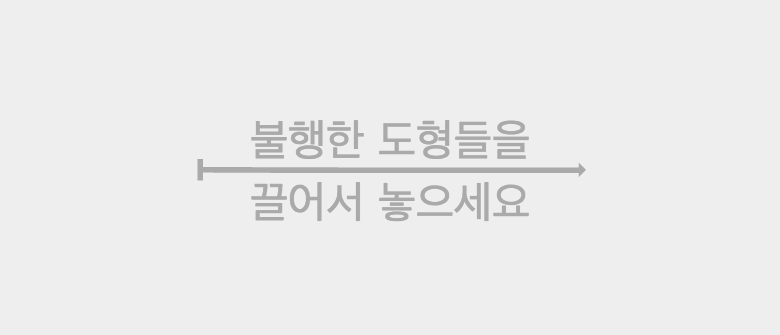
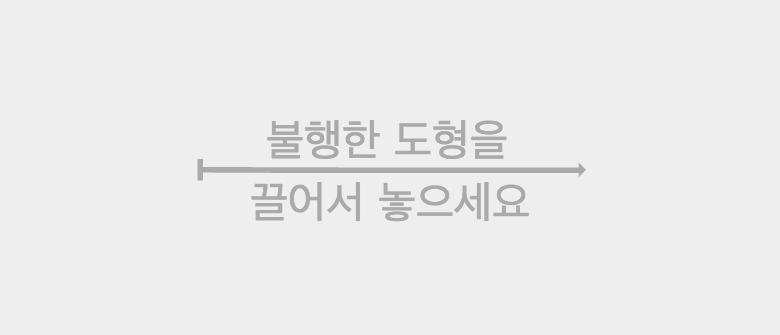
Remove unnecessary '들'

Changed region(s): [[0.3077, 0.3582, 0.6769, 0.4776]]

diff --git a/index.html b/index.html
@@ -4,19 +4,19 @@
 	<meta charset="utf-8"/>
 	<!-- Place this data between the <head> tags of your website -->
 	<title>도형 이야기 - 사회의 형태에 관한 플레이 가능한 글</title>
-	<meta name="description" content="무해한 선택들이 어떻게 해로운 세상을 만드는지에 관한 플레이 가능한 글" />
+	<meta name="description" content="무해한 선택이 어떻게 해로운 세상을 만드는지에 관한 플레이 가능한 글" />
 	<link rel="icon" type="image/png" href="favicon.png">
 
 	<!-- Schema.org markup for Google+ -->
 	<meta itemprop="name" content="도형 이야기">
-	<meta itemprop="description" content="무해한 선택들이 어떻게 해로운 세상을 만드는지에 관한 플레이 가능한 글">
+	<meta itemprop="description" content="무해한 선택이 어떻게 해로운 세상을 만드는지에 관한 플레이 가능한 글">
 	<meta itemprop="image" content="http://ncase.me/polygons/social/thumbnail.png">
 
 	<!-- Twitter Card data -->
 	<meta name="twitter:card" content="summary_large_image">
 	<meta name="twitter:site" content="@ncasenmare">
 	<meta name="twitter:title" content="도형 이야기">
-	<meta name="twitter:description" content="무해한 선택들이 어떻게 해로운 세상을 만드는지에 관한 플레이 가능한 글">
+	<meta name="twitter:description" content="무해한 선택이 어떻게 해로운 세상을 만드는지에 관한 플레이 가능한 글">
 	<meta name="twitter:creator" content="@vihartvihart">
 	<meta name="twitter:image" content="http://ncase.me/polygons/social/thumbnail.png">
 
@@ -25,7 +25,7 @@
 	<meta property="og:type" content="website">
 	<meta property="og:url" content="https://choyongjoon.github.io/polygons-ko/">
 	<meta property="og:image" content="http://ncase.me/polygons/social/thumbnail.png">
-	<meta property="og:description" content="무해한 선택들이 어떻게 해로운 세상을 만드는지에 관한 플레이 가능한 글">
+	<meta property="og:description" content="무해한 선택이 어떻게 해로운 세상을 만드는지에 관한 플레이 가능한 글">
 	<meta property="og:site_name" content="도형 이야기">
 
 	<!-- CSS -->
@@ -50,24 +50,24 @@
 	<!-- CHAPTER -->
 	<div class="chapter">
 
-		<p><strong>이것은 무해한 선택들이 어떻게 해로운 세상을 만드는 지에 관한 이야기입니다.</strong></p>
+		<p><strong>이것은 무해한 선택이 어떻게 해로운 세상을 만드는 지에 관한 이야기입니다.</strong></p>
 		<p>
 			이 귀여운 도형들은 50% 세모, 50% 네모, 그리고 100% 약간 도형차별주의자입니다.
 			하지만 정말 약간만요!
-			사실, 모든 도형들은 다양한 군중 속에 있는 것을 <i>선호합니다</i>.
+			사실, 모든 도형은 다양한 군중 속에 있는 것을 <i>선호합니다</i>.
 		</p>
 
 		<iframe id="mini_intro" playable src="play/mini/mini_intro.html" width="800" height="385" scrolling="no" style="margin:0 auto;display:block" embedded></iframe>
 
 		<p>
-			도형들은 바로 옆의 이웃들과 불행할 때만 옮길 수 있습니다.
-			한번 괜찮은 자리로 옮기고 나면, <i>다시 이웃들과 불행해지기 전까지 움직일 수 없습니다</i>.
-			도형들은 단 하나의 단순한 규칙을 가지고 있죠.
+			도형은 바로 옆의 이웃과 불행할 때만 옮길 수 있습니다.
+			한번 괜찮은 자리로 옮기고 나면, <i>다시 이웃과 불행해지기 전까지 움직일 수 없습니다</i>.
+			도형은 단 하나의 단순한 규칙을 가지고 있죠.
 		</p>
 
 		<p style="text-align:center">
 			<b>
-			“내 이웃들 중 나와 비슷한 도형이 1/3 보다 적다면 자리를 옮기고 싶어."
+			“내 이웃 중 나와 비슷한 도형이 1/3 보다 적다면 자리를 옮기고 싶어."
 			</b>
 		</p>
 		<iframe playable src="play/mini/mini_unhappy.html" width="250" height="320" scrolling="no" style="float:left; margin:0; margin-left:10px; position:relative; left:-30px"  embedded></iframe>
@@ -80,12 +80,12 @@
 
 		<p>
 			무해하죠?
-			모든 도형들은 다양한 이웃들과 행복할 겁니다.
+			모든 도형은 다양한 이웃과 행복할 겁니다.
 			그들의 작은 편견이 큰 도형 사회에 그다지 영향을 미칠 수 없겠죠?
 			음...
 		</p>
 		<div class="instruction">
-			불행한 도형이 없을 때까지 도형들을 끌어서 옮기세요.<br>
+			불행한 도형이 없을 때까지 도형을 끌어서 옮기세요.<br>
 			<span style="font-size:18px">(무작위 빈 공간에 옮기세요. 너무 고민하지 말구요.)</span>
 		</div>
 
@@ -102,16 +102,16 @@
 			그러면... 우리의 도형 사회는 엄청 분리됩니다. 이런.
 		</p>
 		<p>
-			때때로 이웃들이 네모가 되는 경우가 있고,
-			어떤 세모도 주위에 있고 싶지 않은 것은 네모들의 잘못이 아닙니다.
-			그리고 세모 이웃들은 네모들을 환영히지만
-			네모들이 관심이 없는 것까지 해결할 수 없습니다.
+			때때로 이웃이 네모가 되는 경우가 있고,
+			어떤 세모도 주위에 있고 싶지 않은 것은 네모의 잘못이 아닙니다.
+			그리고 세모 이웃은 네모를 환영히지만
+			네모가 관심이 없는 것까지 해결할 수 없습니다.
 		</p>
 
 		<iframe id="mini_neighborhood" playable src="play/mini/mini_neighborhood.html" width="730" height="240" scrolling="no" style="margin:0 auto;display:block" embedded></iframe>
 
 		<p>
-			이번 단계에서는, 불행한 도형들은 무작위 빈 자리로 자동적으로 움직입니다.
+			이번 단계에서는, 불행한 도형은 무작위 빈 자리로 자동적으로 움직입니다.
 			또한 시간에 따라 분리된 정도를 기록하는 그래프도 있습니다.
 		</p>
 		<div class="instruction">
@@ -127,14 +127,14 @@
 	<!-- CHAPTER -->
 	<div class="chapter">
 		<p>
-			무슨 일이 일어난 거죠? 이들은 좋은 도형들이고, 괜찮은 도형들입니다.
-			그렇지만, 모든 개인들이 약간의 편견만 가지고 있더라도, 전체 도형 사회는 갈라지고 나눠집니다.
+			무슨 일이 일어난 거죠? 이들은 좋은 도형이고, 괜찮은 도형입니다.
+			그렇지만, 모든 개인이 약간의 편견만 가지고 있더라도, 전체 도형 사회는 갈라지고 나눠집니다.
 		</p>
 
 		<iframe id="mini_checkerboard" playable src="play/mini/mini_checkerboard.html" width="730" height="240" scrolling="no" style="margin:0 auto;display:block" embedded></iframe>
 
 		<p>
-			<strong>작은 개인의 편견들은 큰 집단 편견으로 이어질 수 있습니다.</strong>
+			<strong>작은 개인의 편견은 큰 집단 편견으로 이어질 수 있습니다.</strong>
 		</p>
 		<p>
 			평등은 불안정한 평형입니다.
@@ -169,7 +169,7 @@
 
 		<p>
 			그럼, 그냥 모두의 편견을 0으로 만들죠. 어때요?
-			하하, 안됩니다. 실제 세상은 매일 시민들이 무작위로 섞여서 새롭게 시작되지 않습니다.
+			하하, 안됩니다. 실제 세상은 매일 시민이 무작위로 섞여서 새롭게 시작되지 않습니다.
 			매일, 당신은 셔플댄스를 추지 않습니다. (역주: LMFAO의 노래 Party Rock 중에서 "Everyday I'm Shuffling"을 비꼰 농담)
 		</p>
 
@@ -190,19 +190,19 @@
 			변화가 없습니다. 뒤섞이는 일이 없습니다.
 			편견이 이미 존재하는 세상에는, 편견이 없어지는 것만으로는 충분하지 않습니다!
 			우리는 새로운 적극적인 조치가 필요합니다.
-			도형들이 조금 더 다양성을 찾고자 한다면 어떨까요?
+			도형이 조금 더 다양성을 찾고자 한다면 어떨까요?
 		</p>
 
 		<iframe id="mini_nonconform" playable src="play/mini/mini_nonconform.html" width="400" height="440" scrolling="no" style="margin:0 auto;display:block" embedded></iframe>
 
 		<p>
-			우와. 각각의 도형들이 최대 90%까지 비슷한 이웃을 가져도 괜찮은데도,
+			우와. 각각의 도형이 최대 90%까지 비슷한 이웃을 가져도 괜찮은데도,
 			모두 같이 섞였습니다!
 			더 큰 스케일에서 해봅시다.
-			우리가 모든 도형들의 편견과 반편견을 조절합니다.
+			우리가 모든 도형의 편견과 반편견을 조절합니다.
 		</p>
 		<div class="instruction">
-			세상은 분리된 채로 시작합니다. 도형들이 최고로 작은 다양성을 요구한다고 할 때 어떤 일이 일어나나요?
+			세상은 분리된 채로 시작합니다. 도형이 최고로 작은 다양성을 요구한다고 할 때 어떤 일이 일어나나요?
 		</div>
 	</div>
 
@@ -215,7 +215,7 @@
 	<div class="chapter">
 		<p>
 			우리가 받아들일 수 있는 환경이 어때야 하는지에 대한 인식 변화가 필요한 전부입니다.
-			그러니, 동료 도형들, 이것이 세모 대 네모에 관한 것이 아님을 기억하세요.
+			그러니, 동료 도형 여러분, 이것이 세모 대 네모에 관한 것이 아님을 기억하세요.
 			그것은 우리가 바라는 세상을 결정하는 것에 대한 것이지 더 이상 정착하는 것에 대한 것이 아닙니다.
 		</p>
 		<p style="text-align:center">
@@ -262,7 +262,7 @@
 			<b>1. 작은 개인 편견 &rarr; 큰 집단 편견.</b>
 			<br>
 			<!--Micromotives, macrobehaviour...-->
-			누군가 문화가 도형차별적이라고 말할 때, <i>개인들이</i> 도형차별자라고 말하는 것이 아닙니다.
+			누군가 문화가 도형차별적이라고 말할 때, <i>개인이</i> 도형차별자라고 말하는 것이 아닙니다.
 			당신을 개인적으로 공격한 것이 아닙니다.
 		</p>
 		<p>
@@ -274,10 +274,10 @@
 		<p>
 			<b>3. 당신 옆에 다양성을 요구하세요.</b>
 			<br>
-			작은 편견들이 우리가 속한 난장판을 만들었다면, 작은 반편견이 해결할 수 있을지 모릅니다.
+			작은 편견이 우리가 속한 난장판을 만들었다면, 작은 반편견이 해결할 수 있을지 모릅니다.
 			주위를 둘러보세요. 당신의 친구, 동료, 참석한 컨퍼런스.
-			만약 모두 세모들이라면, 당신은 인생에서 멋진 네모들을 놓치고 있는 겁니다.
-			그건 모두에게 불공정합니다. 가까운 이웃들을 넘어서 멀리 도달하세요.
+			만약 모두 세모라면, 당신은 인생에서 멋진 네모를 놓치고 있는 겁니다.
+			그건 모두에게 불공정합니다. 가까운 이웃을 넘어서 멀리 도달하세요.
 		</p>
 		<iframe playable src="play/mini/mini_ending.html" width="600" height="80" scrolling="no" style="margin:0 auto;display:block" embedded></iframe>
 	</div>
@@ -293,7 +293,7 @@
 				우리의 귀여운 분리 시뮬레이션은 노벨상을 받은 게임이론가 토머스 셸링(Thomas Schelling)의 작업에 기반합니다. 특히 그의 1971년 논문,
 				<a target="_blank" href="http://www.stat.berkeley.edu/~aldous/157/Papers/Schelling_Seg_Models.pdf">
 				Dynamic Models of Segregation</a>에 기반합니다.
-				우리는 이것을 기초로 만들었고, 다양성에 대한 작은 요구가 이웃들의 분리를 막을 수 있는지 보여주었습니다.다른 말로, 우리는 그의 모델에 행복한 결말을 준 것입니다.
+				우리는 이것을 기초로 만들었고, 다양성에 대한 작은 요구가 이웃의 분리를 막을 수 있는지 보여주었습니다.다른 말로, 우리는 그의 모델에 행복한 결말을 준 것입니다.
 
 				<br><br>
 
@@ -303,20 +303,20 @@
 
 				<br><br>
 
-				제도화 된 편견의 다른 수학적 모델들도 있습니다!
+				제도화 된 편견의 다른 수학적 모델도 있습니다!
 				<a target="_blank" href="http://www.ruf.rice.edu/~lane/papers/male_female.pdf">
 				Male-Female Differences: A Computer Simulation</a>
 				은 작은 성 편견이 승진의 사다리를 올라갈 때 어떻게 혼합되는지 보여줍니다.
 				<a target="_blank" href="http://iangent.blogspot.com/2013/10/the-petrie-multiplier-why-attack-on.html">
 				The Petrie Multiplier</a>
-				은 왜 기술 분야에서 섹시즘에관한 공격이 남자들에 대한 공격이 <i>아니라는 것</i>을 보여줍니다.
+				은 왜 기술 분야에서 섹시즘에관한 공격이 남자에 대한 공격이 <i>아니라는 것</i>을 보여줍니다.
 
 				<br><br>
 
 				오늘날의 도덕적 메시지&trade;는 작은 다양성을 당신의 공간에 요구하는 것이
 				결과적으로 큰 차이를 만든다는 것입니다.
 				<a target="_blank" href="http://plzdiversifyyourpanel.tumblr.com/">Plz Diversify Your Panel</a>,
-				은 많은 사람들을 대표하는 발표자가
+				은 많은 사람을 대표하는 발표자가
 				다양성이 없는 패널 앞에서 말하지 않겠다는 서약입니다.
 
 				<br><br>
@@ -337,16 +337,16 @@
 					<b style="font-size:25px;">다양성을 후원하세요!</b>
 					<br>
 					<a target="_blank" href="http://www.blackgirlscode.com/">Black Girls Code</a>
-					- 유색 소녀들에게 코딩 수업을 제공합니다
+					- 유색 소녀에게 코딩 수업을 제공합니다
 					<br>
 					<a target="_blank" href="http://girlswhocode.com/">Girls Who Code</a>
-					- 고등학교 여학생들에게 코딩을 가르칩니다
+					- 고등학교 여학생에게 코딩을 가르칩니다
 					<br>
 					<a target="_blank" href="http://code2040.org/">Code 2040</a>
 					- 흑인과 히스패닉이 기술 분야에 진입하도록 돕습니다
 					<br>
 					<a target="_blank" href="http://codeliberation.org/">Code Liberation</a>
-					- 비디오 게임을 만드는 여성들을 돕는 무료 워크샵
+					- 비디오 게임을 만드는 여성을 돕는 무료 워크샵
 					<br>
 					<a target="_blank" href="http://www.patreon.com/ncase">Nicky's Patreon</a>
 					- (바로 이 글과 같이) 퍼블릭 도메인이 플레이 가능하도록 만듭니다.
@@ -360,7 +360,7 @@
 
 					<br>
 
-					<b>우리의 베타-독자들에게 감사를 표합니다.</b><br>
+					<b>우리의 베타-독자에게 감사를 표합니다.</b><br>
 					Andrea, Astrid, Catherine, Chris, Emily, Glen, Jocelyn, Laura, Marc, Marko, Zak
 
 					<br><br>

diff --git a/play/outro/outro.html b/play/outro/outro.html
@@ -65,12 +65,12 @@
 
 			공유하세요<span style="position:relative;top:-5px">:</span>
 
-			<a data-popup-url="https://www.facebook.com/sharer.php?u=https%3A%2F%2Fchoyongjoon.github.io%2Fpolygons-ko%2F&amp;t=도형 이야기: 무해한 선택들이 어떻게 해로운 세상을 만드는지에 관한 플레이 가능한 글."
+			<a data-popup-url="https://www.facebook.com/sharer.php?u=https%3A%2F%2Fchoyongjoon.github.io%2Fpolygons-ko%2F&amp;t=도형 이야기: 무해한 선택이 어떻게 해로운 세상을 만드는지에 관한 플레이 가능한 글."
 				data-popup-width="626" data-popup-height="436"
 				onclick="return sharePopup.call(this,event);">
 				<img src="icons/facebook.png" width="60" height="60"/></a>
 
-			<a data-popup-url="https://twitter.com/share?url=https%3A%2F%2Fchoyongjoon.github.io%2Fpolygons-ko%2F&amp;text=도형 이야기: 무해한 선택들이 어떻게 해로운 세상을 만드는지에 관한 플레이 가능한 글. From @vihartvihart and @ncasenmare."
+			<a data-popup-url="https://twitter.com/share?url=https%3A%2F%2Fchoyongjoon.github.io%2Fpolygons-ko%2F&amp;text=도형 이야기: 무해한 선택이 어떻게 해로운 세상을 만드는지에 관한 플레이 가능한 글. From @vihartvihart and @ncasenmare."
 				data-popup-width="640" data-popup-height="400"
 				onclick="return sharePopup.call(this,event);">
 				<img src="icons/twitter.png" width="60" height="60"/></a>
@@ -80,7 +80,7 @@
 				onclick="return sharePopup.call(this,event);">
 				<img src="icons/googleplus.png" width="60" height="60"/></a>
 
-			<a data-popup-url="https://www.tumblr.com/share/link?url=https%3A%2F%2Fchoyongjoon.github.io%2Fpolygons-ko%2F&amp;name=도형 이야기&amp;description=무해한 선택들이 어떻게 해로운 세상을 만드는지에 관한 플레이 가능한 글."
+			<a data-popup-url="https://www.tumblr.com/share/link?url=https%3A%2F%2Fchoyongjoon.github.io%2Fpolygons-ko%2F&amp;name=도형 이야기&amp;description=무해한 선택이 어떻게 해로운 세상을 만드는지에 관한 플레이 가능한 글."
 				data-popup-width="446" data-popup-height="430"
 				onclick="return sharePopup.call(this,event);">
 				<img src="icons/tumblr.png" width="60" height="60"/></a>

diff --git a/play/automatic/automatic3.html b/play/automatic/automatic3.html
@@ -14,7 +14,7 @@
 				<canvas id="stats_canvas" width="370" height="270"></canvas>
 				<div id="stats_text"></div>
 			</div>
-			이웃들 중 나와 비슷한 도형이 <span class="highlight"><span id="bias_text">33%</span>보다 적을 때 </span> 자리를 옮기고 싶어
+			이웃 중 나와 비슷한 도형이 <span class="highlight"><span id="bias_text">33%</span>보다 적을 때 </span> 자리를 옮기고 싶어
 			<br>
 			<div id="slider"></div>
 			<br>

diff --git a/translator/translator.html b/translator/translator.html
@@ -119,7 +119,7 @@
             ctx.drawImage(img, 0, 0);
             for (var y = 100; y < 200; y += 80)
                 tapeRect(ctx, 220, y, 340, 60);
-            putText(ctx, 250, 156, 44, "#aaa", "Ostrich Sans Black", "불행한 도형들을");
+            putText(ctx, 266, 156, 44, "#aaa", "Ostrich Sans Black", "불행한 도형을");
             putText(ctx, 250, 218, 44, "#aaa", "Ostrich Sans Black", "끌어서 놓으세요");
         })
     </script>

diff --git a/play/mini/mini_bias_1.html b/play/mini/mini_bias_1.html
@@ -7,7 +7,7 @@
 	<canvas id="canvas"></canvas>
 	<br>
 	<div style="text-align:center; margin:10px 0; color:#777">
-    이웃들 중 자신과 비슷한 도형이 <span style="color:#dd3939">33% 보다 적다면</span> 자리를 옮기고 싶어합니다.
+    이웃 중 자신과 비슷한 도형이 <span style="color:#dd3939">33% 보다 적다면</span> 자리를 옮기고 싶어합니다.
 	</div>
 	<div id="reset" onclick="reset()">되돌리기</div>
 

diff --git a/play/mini/mini_bias_2.html b/play/mini/mini_bias_2.html
@@ -7,7 +7,7 @@
 	<canvas id="canvas"></canvas>
 	<br>
 	<div style="text-align:center; margin:10px 0; color:#777">
-    이웃들 중 자신과 비슷한 도형이 <span style="color:#dd3939">50% 보다 적다면</span> 자리를 옮기고 싶어합니다.
+    이웃 중 자신과 비슷한 도형이 <span style="color:#dd3939">50% 보다 적다면</span> 자리를 옮기고 싶어합니다.
 	</div>
 	<div id="reset" onclick="reset()">되돌리기</div>
 

diff --git a/play/automatic/automatic4.html b/play/automatic/automatic4.html
@@ -15,7 +15,7 @@
 				<div id="stats_text"></div>
 			</div>
 
-			이웃들 중 나와 비슷한 도형이 <span class="highlight">&lt;<span id="bias_text">33%</span></span>
+			이웃 중 나와 비슷한 도형이 <span class="highlight">&lt;<span id="bias_text">33%</span></span>
 			또는 <span class="highlight">&gt;<span id="nonconform_text">100%</span></span> 일 때 자리를 옮기고 싶어
 			<br>
 			<div id="slider"></div>

diff --git a/play/automatic/automatic_sandbox.html b/play/automatic/automatic_sandbox.html
@@ -20,7 +20,7 @@
 				<div id="stats_text"></div>
 			</div>
 
-			이웃들 중 나와 비슷한 도형이 <span class="highlight">&lt;<span id="bias_text">33%</span></span>
+			이웃 중 나와 비슷한 도형이 <span class="highlight">&lt;<span id="bias_text">33%</span></span>
 			또는 <span class="highlight">&gt;<span id="nonconform_text">100%</span></span> 일 때 자리를 옮기고 싶어
 			<br>
 			<div id="slider"></div>

diff --git a/play/mini/mini_bored.html b/play/mini/mini_bored.html
@@ -8,7 +8,7 @@
 	<br>
 	<div style="text-align:center; margin:10px 0; color:#777; font-size:15px">
 		<span style="color:#dd3939">지루함:</span>
-    모든 이웃들이 나와 비슷하네요. (아무 이웃이 없는 경우에도 지루하겠죠.)
+    모든 이웃이 나와 비슷하네요. (아무 이웃이 없는 경우에도 지루하겠죠.)
 	</div>
 
 	<script>

diff --git a/play/mini/mini_nonconform.html b/play/mini/mini_nonconform.html
@@ -7,7 +7,7 @@
 	<canvas id="canvas"></canvas>
 	<br>
 	<div style="text-align:center; margin:10px 0; color:#777">
-		이웃들 중 나와 비슷한 도형이 <span style="color:#dd3939">90%보다 많을 때</span>
+		이웃 중 나와 비슷한 도형이 <span style="color:#dd3939">90%보다 많을 때</span>
 		<br>
 		자리를 옮기고 싶어
 	</div>

diff --git a/play/mini/mini_happy.html b/play/mini/mini_happy.html
@@ -8,7 +8,7 @@
 	<br>
 	<div style="text-align:center; margin:10px 0; color:#777; font-size:15px">
 		<span style="color:#dd3939">행복함:</span>
-		6명의 이웃들 중 2명이 나와 비슷합니다. 정확히 1/3이네요.
+		6명의 이웃 중 2명이 나와 비슷합니다. 정확히 1/3이네요.
 	</div>
 
 	<script>

diff --git a/play/mini/mini_unhappy.html b/play/mini/mini_unhappy.html
@@ -8,7 +8,7 @@
 	<br>
 	<div style="text-align:center; margin:10px 0; color:#777; font-size:15px">
 		<span style="color:#dd3939">불행함:</span>
-		6명의 이웃들 중 1명만이 나와 비슷합니다. 1/3보다 적군요.
+		6명의 이웃 중 1명만이 나와 비슷합니다. 1/3보다 적군요.
 	</div>
 
 	<script>
